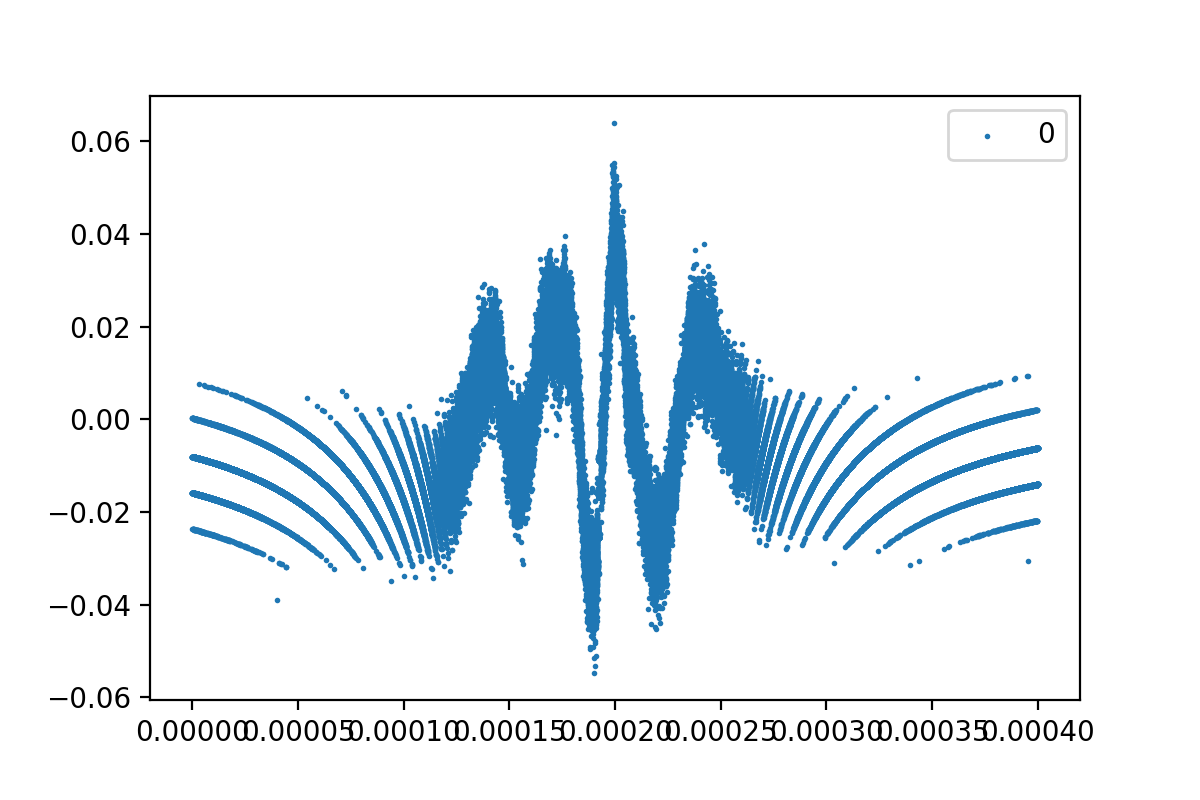
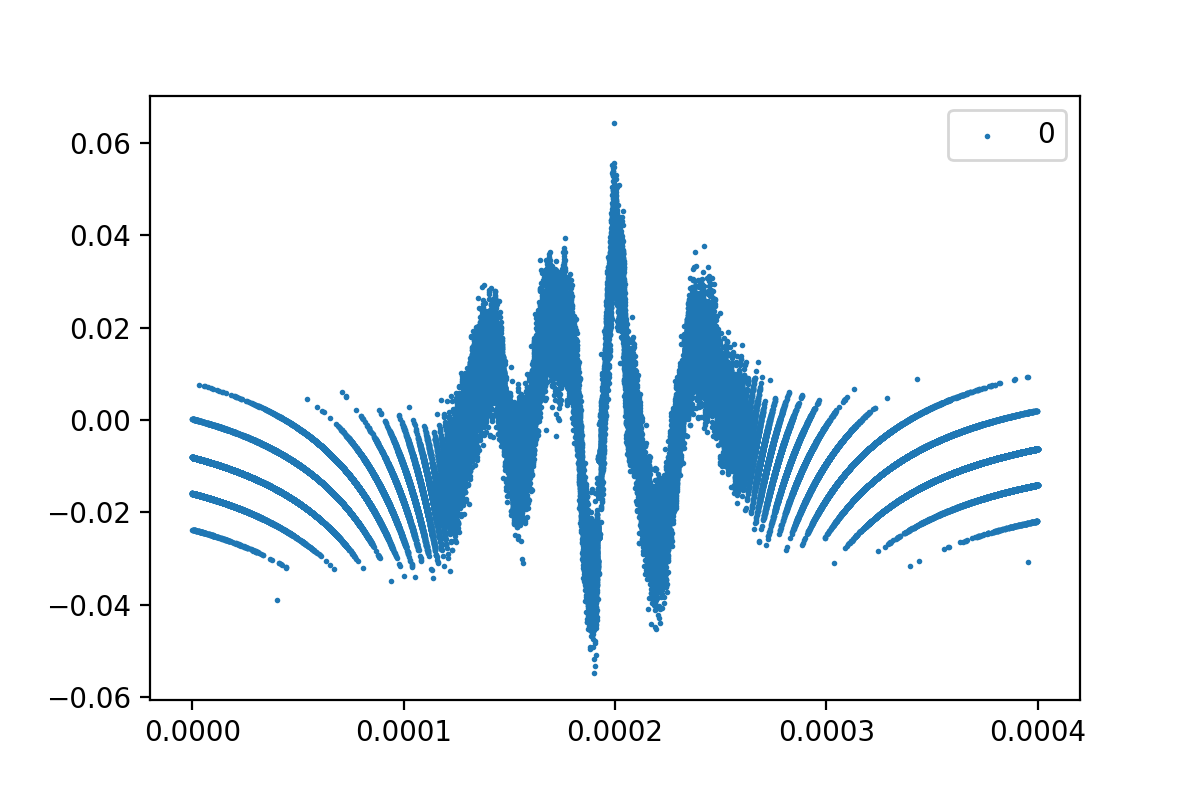
Finished all questions and write-up

diff --git a/Assignment_4/A4defg.py b/Assignment_4/A4defg.py
@@ -1,0 +1,212 @@
+# -*- coding: utf-8 -*-
+"""
+Created on Wed Oct 12 13:39:54 2022
+
+@author: liamf
+"""
+
+import numpy as np
+import matplotlib.pyplot as plt
+plt.rcParams['figure.dpi'] = 200
+from tqdm import tqdm
+
+# Part D) and E)
+
+def param_grad(fun,m,t):  # Get parameter gradient of function numerically
+    dx=10**-5
+    derivs=[]
+    for i in range(len(m)):
+        m_c=m.copy()
+        m_c[i]+=dx    # m_i -> m_i + dm_i
+        y1=fun(m_c,t)
+        m_c[i]-=2*dx  # m_i -> m_i - dm_i
+        y_1=fun(m_c,t) 
+        d=(y1-y_1)/(2*dx)  # Central difference
+        derivs.append(d)
+    return np.matrix(derivs).T  # Transpose fit with Newton method function
+
+def lorentz(m,t):  # New function to fit
+    lorentz_left=m[3]/(1+(t-m[1]+m[5])**2/m[2]**2)
+    lorentz_main=m[0]/(1+(t-m[1])**2/m[2]**2)
+    lorentz_right=m[4]/(1+(t-m[1]-m[5])**2/m[2]**2)
+    return lorentz_left+lorentz_main+lorentz_right
+
+def calc_lorentz(m,t):
+    y=lorentz(m,t)
+    grad=param_grad(lorentz,m,t)
+    return y,grad
+
+def newton_lorentz(t,y,m0,n):  # Same code for Newtons method from class
+    m=m0.copy()
+    for i in range(n):
+        pred,grad=calc_lorentz(m,t)
+        r=y-pred
+        r=np.matrix(r).T
+        grad=np.matrix(grad)
+        lhs=grad.T@grad
+        rhs=grad.T@r
+        dm=np.linalg.inv(lhs)*rhs
+        for j in range(len(m)):
+            m[j]=m[j]+float(dm[j])  # Keep m as list type to pass through calc_lorentz
+    return m
+
+def chi_sq(y,m,t,noise_est):
+    errs=[noise_est]*len(t)
+    pred=calc_lorentz(m,t)[0]
+    chisq=np.sum(np.power(pred-y,2)/np.power(errs,2))
+    return chisq
+
+stuff=np.load('sidebands.npz')
+t=stuff['time']
+y=stuff['signal']
+
+n=20
+m0=[1,0.0002,0.00002,0.4,0.4,0.00005]
+m=newton_lorentz(t,y,m0,n)
+pred,A=calc_lorentz(m,t)
+
+plt.scatter(t,y,s=0.001)
+plt.plot(t,pred,color='orange')
+plt.xlabel('t')
+plt.xticks([0.0000,0.0001,0.0002,0.0003,0.0004])
+plt.legend(['Data',"Least squares fit using \nNewton's Method"])
+plt.savefig('A4_plot14.png')
+plt.clf()
+
+plt.scatter(t,y-pred,s=1)
+plt.xlabel('t')
+plt.xticks([0.0000,0.0001,0.0002,0.0003,0.0004])
+plt.legend(['Residuals of least squares fit'])
+plt.savefig('A4_plot4.png')
+plt.clf()
+
+noise_est=np.std(y[:10000])   # Noise estimate from residuals
+N_inv=noise_est**(-2)*np.identity(len(m))  # Match shape of A.T@A, can put N to front of
+cov=np.linalg.inv(N_inv@A.T@A)             # equation since N=const*identity (avoid memory error)
+m_err=np.sqrt(np.diag(cov))
+
+print('Newton method fit parameters are:''\na =',m[0],'+/-',m_err[0],
+      '\nt_0 =',m[1],'+/-',m_err[1],
+      '\nw =',m[2],'+/-',m_err[2],
+      '\nb =',m[3],'+/-',m_err[3],
+      '\nc =',m[4],'+/-',m_err[4],
+      '\ndt =',m[5],'+/-',m_err[5],
+      '\nChi squared is:',
+      'Chi-sq = ',float(chi_sq(y,m,t,noise_est))) 
+
+
+# Part F) 
+
+
+num=25  # Generate 25 model realizations
+list_chi_sq=[]
+for i in range(num):
+    n_rand=np.random.normal(loc=0.0,scale=noise_est,size=len(t))  # Random noise
+    n_rand=np.matrix(n_rand).T  
+    m_err_rlz=cov@N_inv@A.T@n_rand  # Can pull N_inv out in front
+    m_rlz=np.empty(len(m))
+    for j in range(len(m)):
+        m_rlz[j]=m[j]+float(m_err_rlz[j])  # realized random m
+    list_chi_sq.append(chi_sq(y,m_rlz,t,noise_est))
+    pred_rlz=calc_lorentz(m_rlz,t)[0]
+    
+    plt.scatter(t,y-pred_rlz,s=1)  # Plot different realizations to compare
+    plt.legend([i])
+    plt.xticks([0.0000,0.0001,0.0002,0.0003,0.0004])
+    if i==0:
+        plt.savefig('A4_plot5.png')
+    if i==24:
+        plt.savefig('A4_plot6.png')
+    plt.show()
+    plt.cla()
+plt.clf()
+
+mean,std=(np.mean(list_chi_sq),np.std(list_chi_sq))
+print('\nMean and standard deviation of chi squared for 25 model realizations:\n',
+      mean,'+/-',std)
+
+print('Chi squared for Newton method fit fit:\n',float(chi_sq(y,m,t,noise_est)),'\n')
+
+
+# Part G)
+
+def lorentz_chisq(m,data,noise_est): 
+    t=data['time']
+    y=data['signal']
+    errs=[noise_est]*len(t)
+    
+    pred=calc_lorentz(m,t)[0]
+    chisq=np.sum(np.power(pred-y,2)/np.power(errs,2))
+    return chisq
+
+def MCMC_chain(fun_chisq,data,start_params,noise_est,scale,nstep=10000,T=1):
+    nparam=len(start_params)
+    chain=np.zeros([nstep,nparam])
+    chisq=np.zeros(nstep)
+    chain[0,:]=start_params
+    cur_chisq=fun_chisq(start_params,data,noise_est)
+    chisq[0]=cur_chisq
+    params=start_params
+    for i in tqdm(range(1,nstep)):
+        trial_params=params+np.random.randn(len(params))*scale
+        new_chisq=fun_chisq(trial_params,data,noise_est)
+        accept_prob=np.exp(-0.5*(new_chisq-cur_chisq)/T)
+        if np.random.rand(1)<accept_prob:
+            params=trial_params
+            cur_chisq=new_chisq
+        chain[i,:]=params
+        chisq[i]=cur_chisq
+    return chain,chisq
+
+def chain_eval(chain,chisq,T=1):
+    dchi=chisq-np.min(chisq)
+    wt=np.exp(-0.5*dchi*(1-1/T))
+    npar=chain.shape[1]
+    tot=np.zeros(npar)
+    totsqr=np.zeros(npar)
+    for i in range(npar):
+        tot[i]=np.sum(wt*chain[:,i])
+        totsqr[i]=np.sum(wt*chain[:,i]**2)
+    mean=tot/np.sum(wt)
+    meansqr=totsqr/np.sum(wt)
+    var=meansqr-mean**2
+    return mean,np.sqrt(var),wt
+    
+data=np.load('sidebands.npz')
+t=data['time']
+y=data['signal']
+m0=[1.4,0.0002,0.00002,0.1,0.1,0.00005]
+noise_est=np.std(y[:10000])
+scale=5*m_err
+
+nstep=20001
+chain,chisq=MCMC_chain(lorentz_chisq,data,m0,noise_est,scale,nstep=nstep)
+
+x=np.linspace(0,20000,nstep)
+param_names=[r'$a$',r'$t_0$',r'$w$',r'$b$',r'$c$',r'$dt$']
+for i in range(len(m0)):
+    plt.figure()
+    plt.scatter(x,chain[:,i],s=2)
+    plt.legend([param_names[i]])
+    plt.savefig('A4_plot'+str(7+i)+'.png',bbox_inches='tight')
+    plt.clf()
+
+m,m_err=chain_eval(chain[10000:],chisq[10000:])[:2] # Start from where converged
+pred,A=calc_lorentz(m,t)
+plt.scatter(t,y-pred,s=2)
+plt.legend(['20000 step MCMC fit residuals'])
+plt.xlabel('t')
+plt.xticks([0.0000,0.0001,0.0002,0.0003,0.0004])
+plt.savefig('A4_plot13',bbox_inches='tight')
+
+print('MCMC fit parameters are:''\na =',m[0],'+/-',m_err[0],
+      '\nt_0 =',m[1],'+/-',m_err[1],
+      '\nw =',m[2],'+/-',m_err[2],
+      '\nb =',m[3],'+/-',m_err[3],
+      '\nc =',m[4],'+/-',m_err[4],
+      '\ndt =',m[5],'+/-',m_err[5],
+      '\nChi squared is:',
+      'Chi-sq = ',chi_sq(y,m,t,noise_est))
+
+
+

diff --git a/Assignment_4/A4ab.py b/Assignment_4/A4ab.py
@@ -10,6 +10,12 @@ import matplotlib.pyplot as plt
 
 # Part A) #
 
+def chi_sq(y,m,t,noise_est): 
+    pred=calc_lorentz(m,t)[0]
+    diff=np.matrix(y-pred).T
+    chi_sq=1/noise_est**2*diff.T@diff  # Can pull N_inv out in front as a constant
+    return chi_sq
+
 def calc_lorentz(m,t):  # Same function from class, different derivatives
     a,t_0,w=m
     y=a/(1+(t-t_0)**2/w**2)
@@ -54,20 +60,21 @@ plt.scatter(t,y-pred,s=1)
 plt.xlabel('t')
 plt.xticks([0.0000,0.0001,0.0002,0.0003,0.0004])
 plt.legend(['Residuals of least squares fit'])
-plt.savefig('A4_plot2.png')
+plt.savefig('A4_plot2.png',bbox_inches='tight')
 plt.clf()
 
 
 # Part B) #
 
-noise_est=np.mean(np.abs(y-pred))   # Noise estimate from residuals
+noise_est=np.std(y[:10000]) # Noise estimate from residuals
 N_inv=noise_est**(-2)*np.identity(len(m))  # Match shape of A.T@A, can put N to front of
 cov=np.linalg.inv(N_inv@A.T@A)             # equation since N=const*identity (avoid memory error)
 m_err=np.sqrt(np.diag(cov))
 
 print('Parameters are:''\na =',m[0],'+/-',m_err[0],
       '\nt_0 =',m[1],'+/-',m_err[1],
-      '\nw =',m[2],'+/-',m_err[2])
+      '\nw =',m[2],'+/-',m_err[2],
+      '\nChi-sq = ',float(chi_sq(y,m,t,noise_est)))
 
 
 

diff --git a/Assignment_4/A4c.py b/Assignment_4/A4c.py
@@ -10,6 +10,12 @@ import matplotlib.pyplot as plt
 
 # Part C) #
 
+def chi_sq(y,m,t,noise_est): 
+    pred=calc_lorentz(m,t)[0]
+    diff=np.matrix(y-pred).T
+    chi_sq=1/noise_est**2*diff.T@diff  # Can pull N_inv out in front as a constant
+    return chi_sq
+
 def lorentz(m,t):
     return m[0]/(1+(t-m[1])**2/m[2]**2)
 
@@ -61,11 +67,13 @@ plt.legend(['Residuals of least squares fit \n(numerical differentiation)'])
 plt.savefig('A4_plot3.png')
 plt.clf()
 
-noise_est=np.mean(np.abs(y-pred))   # Noise estimate from residuals
+noise_est=np.std(y[:1000])  # Noise estimate from residuals
 N_inv=noise_est**(-2)*np.identity(len(m))  # Match shape of A.T@A, can put N to front of
-cov=np.linalg.inv(N_inv@A.T@A)             # equation since N=const*identity (avoid memory error)
-m_err=np.sqrt(np.diag(cov))
+cov=np.linalg.inv(N_inv@A.T@A)             # equation since N=const*identity (avoid memory 
+m_err=np.sqrt(np.diag(cov))                # error of large matrix)
 
 print('Parameters are:''\na =',m[0],'+/-',m_err[0],
       '\nt_0 =',m[1],'+/-',m_err[1],
-      '\nw =',m[2],'+/-',m_err[2])
+      '\nw =',m[2],'+/-',m_err[2],
+      '\nChi squared is:',
+      'Chi-sq = ',float(chi_sq(y,m,t,noise_est)))
